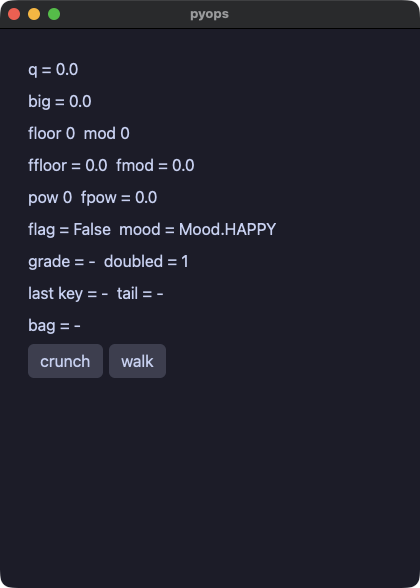
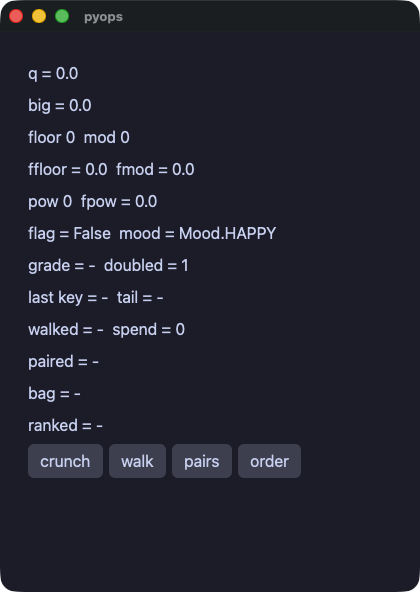
docs(lists): what takes any element, and what needs a key
The tour's list section now separates the two: the operations that
say nothing about the element (`in`, a slice, `+`, `[::-1]`) take a
list of anything the app can hold, and the ones that compare take
`key=` and `reverse=`. `reversed(xs)` is named as Python's iterator,
with `xs[::-1]` beside it. Both languages, both the repo tour and the
website copy, plus the skill.

The pyops demo grew an `order` pane over all of it, so the gallery
shot was reshot — it was two panes out of date.

diff --git a/crates/yokan/DESIGN.md b/crates/yokan/DESIGN.md
@@ -1253,3 +1253,44 @@ side reads the state — so a later `f"{q}"` printed two different
 things. It was silent until a tuple unpacking put a common name like
 `q` on the left. It is refused now, in both the plain assignment and
 the unpacking, and the message names the rename.
+
+## The container operations belong to the container
+
+Sixteen functions — `in`, a slice, `+` and a reversal, once per
+element type — said nothing about the element. They were four ideas
+written four times, and a fifth element type meant writing them a
+fifth. They are one implementation each now, generic on the kernel's
+own list, so they take a list of anything the app can hold: a value
+class, a tuple, an enum. Nothing was added to the boundary to get
+there; what moved is where the operation lives.
+
+Comparing is the opposite: it needs to know what to compare, and a
+value class has no order of its own — which is what Python says too,
+where `sorted` on a list of dataclasses raises. So the ordering
+operations take Python's own answer to that, `key=`, and the refusal
+without one names it.
+
+## A key function is a loop, not a callback
+
+`sorted(xs, key=f)` is decorate-sort-undecorate: the keys are
+computed first, then the elements move to where their keys went.
+Written that way the key function never becomes a value — the
+translator emits the loop that computes the keys, in the app's own
+dialect, and asks the container only for the order. So the key can be
+anything the dialect can write, a lambda or a named helper, and the
+crate boundary keeps carrying values and nothing else.
+
+The sort is stable and `reverse=True` reverses the COMPARISON rather
+than the result, which is what Python does and what
+`sorted(...)[::-1]` does not: ties keep the order they came in.
+`min`/`max` with a key take the first of equal keys, the way Python
+does, and an empty list raises.
+
+## `reversed` is an iterator, so `xs[::-1]` is the list
+
+`reversed(xs)` answered a list here and an iterator in Python. The
+difference is invisible in a `for` — where the name is nearly always
+written — and shows up the moment the result is indexed or measured.
+It is now what Python says it is: a `for` iterable. Where a list is
+wanted the spelling is `xs[::-1]`, which is a list in Python too, and
+the refusal for the old shape names it.

diff --git a/crates/yokan/TOUR.ja.md b/crates/yokan/TOUR.ja.md
@@ -446,7 +446,7 @@ len(items())                 # 件数
 ```
 
 Python のリスト操作はハンドラの中でそのまま使えます。
-`in`、スライス、`sorted` / `reversed` / `min` / `max` / `sum`、内包表記、`enumerate` と `zip`、step 付きの `range`、二つのリストの連結です。
+`in`、スライス、`sorted` / `min` / `max` / `sum`、内包表記、`enumerate` と `zip`、step 付きの `range`、二つのリストの連結です。
 ローカルのリストは注釈で要素の型を書きます（コンパイル側がそれを読みます）。
 
 ```python
@@ -457,6 +457,23 @@ for i, s in enumerate(items()):
 items.set(sorted(out))
 best.set(max(scores()))
 ```
+
+要素が何かを問わない操作（`in`、スライス、`+`、`[::-1]`）は、アプリが持てるどんな要素のリストにも使えます。
+値クラスやタプルのリストも同じです。
+比べるほうは何を比べるかが要るので、`sorted` と `min` と `max` は `key=` を取ります。
+順序を逆にする `reverse=` も取ります。
+`key=` に渡すのは要素を一つ取るラムダか、要素を一つ取るヘルパの名前です。
+並べ替えは安定で、キーが等しい要素は入ってきた順のまま残ります（`reverse=True` のときも同じです）。
+
+```python
+by_score = sorted(players(), key=lambda p: p.score, reverse=True)
+leader = max(players(), key=lambda p: p.score)
+names = [p.name for p in players()]
+newest = entries()[::-1]
+```
+
+`reversed(xs)` は Python ではイテレータなので、`for` で後ろから回すのに使います。
+リストがほしいところでは、Python でもリストになる `xs[::-1]` を書きます。
 
 添字は Python と同じ意味で読めます。
 負の添字は後ろから数え、範囲外はその文をどちらの実行でも中断します。

diff --git a/website/docs-ja/tour-logic.md b/website/docs-ja/tour-logic.md
@@ -133,7 +133,7 @@ len(items())                 # 件数
 ```
 
 Python のリスト操作はハンドラの中でそのまま使えます。
-`in`、スライス、`sorted` / `reversed` / `min` / `max` / `sum`、内包表記、`enumerate` と `zip`、step 付きの `range`、二つのリストの連結です。
+`in`、スライス、`sorted` / `min` / `max` / `sum`、内包表記、`enumerate` と `zip`、step 付きの `range`、二つのリストの連結です。
 ローカルのリストは注釈で要素の型を書きます（コンパイル側がそれを読みます）。
 
 ```python
@@ -144,6 +144,23 @@ for i, s in enumerate(items()):
 items.set(sorted(out))
 best.set(max(scores()))
 ```
+
+要素が何かを問わない操作（`in`、スライス、`+`、`[::-1]`）は、アプリが持てるどんな要素のリストにも使えます。
+値クラスやタプルのリストも同じです。
+比べるほうは何を比べるかが要るので、`sorted` と `min` と `max` は `key=` を取ります。
+順序を逆にする `reverse=` も取ります。
+`key=` に渡すのは要素を一つ取るラムダか、要素を一つ取るヘルパの名前です。
+並べ替えは安定で、キーが等しい要素は入ってきた順のまま残ります（`reverse=True` のときも同じです）。
+
+```python
+by_score = sorted(players(), key=lambda p: p.score, reverse=True)
+leader = max(players(), key=lambda p: p.score)
+names = [p.name for p in players()]
+newest = entries()[::-1]
+```
+
+`reversed(xs)` は Python ではイテレータなので、`for` で後ろから回すのに使います。
+リストがほしいところでは、Python でもリストになる `xs[::-1]` を書きます。
 
 添字は Python と同じ意味で読めます。
 負の添字は後ろから数え、範囲外はその文をどちらの実行でも中断します。

diff --git a/crates/yokan/skill/SKILL.md b/crates/yokan/skill/SKILL.md
@@ -384,8 +384,9 @@ def tally():
 ```
 
 - `if` / `elif` / `else`, `while`, `for` (over `range()` with one or
-  two arguments, a list state, a list field, a list parameter, or
-  `sorted(d())`), `break` / `continue`, locals (reassignable).
+  two arguments, a list state, a list field, a list parameter,
+  `sorted(d())`, or `sorted(xs)` / `reversed(xs)`), `break` /
+  `continue`, locals (reassignable).
 - A local assigned in **both** arms of an `if` / `else` reads after
   the branch; assigned in one arm only, it is refused (Python would
   raise NameError on the other path). Loop variables do not outlive
@@ -412,9 +413,14 @@ def tally():
   negative index counts from the back, past the end aborts the
   statement); `xs[i] = v` writes one. `len(xs)`, `Cart.xs` and
   `self.xs` all say the same thing inside a store. `in`, slices,
-  `sorted` / `reversed` / `min` / `max` / `sum`, comprehensions,
-  `enumerate` / `zip`, a stepped `range` and joining two lists all
-  work; a local list is annotated (`out: list[str] = []`).
+  `sorted` / `min` / `max` / `sum`, comprehensions, `enumerate` /
+  `zip`, a stepped `range` and joining two lists all work; a local
+  list is annotated (`out: list[str] = []`). `in`, a slice, `+` and
+  `[::-1]` take a list of any element the app can hold (a value
+  class, a tuple); `sorted` / `min` / `max` take `key=` (a lambda of
+  one element, or a helper's name) and `sorted` a `reverse=` for
+  those, and the sort is stable. `reversed(xs)` is Python's
+  iterator: it belongs in a `for`, and `xs[::-1]` is the list.
 - `log("…")` writes a line to stderr from either run; `assert` and
   `raise` end the statement the way Python's exception does.
 - Strings: `+`, `==`, `<`, `"-" * 3`, f-strings with Python's

diff --git a/crates/yokan/TOUR.md b/crates/yokan/TOUR.md
@@ -437,7 +437,7 @@ items.set([])                # clear
 len(items())                 # count
 ```
 
-The rest of Python's list vocabulary works in handlers: `in`, slices, `sorted` / `reversed` / `min` / `max` / `sum`, comprehensions, `enumerate` and `zip`, a stepped `range`, and joining two lists.
+The rest of Python's list vocabulary works in handlers: `in`, slices, `sorted` / `min` / `max` / `sum`, comprehensions, `enumerate` and `zip`, a stepped `range`, and joining two lists.
 A local list carries its element type in the annotation, which is what the compiled side reads.
 
 ```python
@@ -448,6 +448,19 @@ for i, s in enumerate(items()):
 items.set(sorted(out))
 best.set(max(scores()))
 ```
+
+The operations that say nothing about the element — `in`, a slice, `+`, `[::-1]` — take a list of anything the app can hold, a value class or a tuple included.
+Comparing needs to know what to compare, so `sorted`, `min` and `max` take a `key=` for those, and a `reverse=` to turn the order around.
+The key is a lambda of one element or the name of a helper that takes one, and sorting is stable: elements with equal keys keep the order they came in, with `reverse=True` as well.
+
+```python
+by_score = sorted(players(), key=lambda p: p.score, reverse=True)
+leader = max(players(), key=lambda p: p.score)
+names = [p.name for p in players()]
+newest = entries()[::-1]
+```
+
+`reversed(xs)` is Python's iterator, so it walks a list backwards in a `for`; where a list is wanted, `xs[::-1]` is the one that is a list in Python too.
 
 Indexing reads an element, with Python's meaning: a negative index counts from the back, and an index past the end stops that statement in both runs.
 

diff --git a/website/docs/tour-logic.md b/website/docs/tour-logic.md
@@ -126,7 +126,7 @@ items.set([])                # clear
 len(items())                 # count
 ```
 
-The rest of Python's list vocabulary works in handlers: `in`, slices, `sorted` / `reversed` / `min` / `max` / `sum`, comprehensions, `enumerate` and `zip`, a stepped `range`, and joining two lists.
+The rest of Python's list vocabulary works in handlers: `in`, slices, `sorted` / `min` / `max` / `sum`, comprehensions, `enumerate` and `zip`, a stepped `range`, and joining two lists.
 A local list carries its element type in the annotation, which is what the compiled side reads.
 
 ```python
@@ -137,6 +137,19 @@ for i, s in enumerate(items()):
 items.set(sorted(out))
 best.set(max(scores()))
 ```
+
+The operations that say nothing about the element — `in`, a slice, `+`, `[::-1]` — take a list of anything the app can hold, a value class or a tuple included.
+Comparing needs to know what to compare, so `sorted`, `min` and `max` take a `key=` for those, and a `reverse=` to turn the order around.
+The key is a lambda of one element or the name of a helper that takes one, and sorting is stable: elements with equal keys keep the order they came in, with `reverse=True` as well.
+
+```python
+by_score = sorted(players(), key=lambda p: p.score, reverse=True)
+leader = max(players(), key=lambda p: p.score)
+names = [p.name for p in players()]
+newest = entries()[::-1]
+```
+
+`reversed(xs)` is Python's iterator, so it walks a list backwards in a `for`; where a list is wanted, `xs[::-1]` is the one that is a list in Python too.
 
 Indexing reads an element, with Python's meaning: a negative index counts from the back, and an index past the end stops that statement in both runs.
 

diff --git a/website/docs/demos.md b/website/docs/demos.md
@@ -66,7 +66,7 @@ the initial state, right after launch.
 #### moods — Enum, Optional and animation
 <img src="images/demos/moods.png" width="360">
 
-#### pyops — CPython's own arithmetic: `/` `//` `%` `**`, negative indexing, sorted() — byte-identical in both runs
+#### pyops — CPython's own arithmetic: `/` `//` `%` `**`, negative indexing, ordering by a key — byte-identical in both runs
 <img src="images/demos/pyops.png" width="360">
 
 #### pytext — bare float / bool / Enum text renders exactly as Python's str()

diff --git a/crates/yokan/demo/README.md b/crates/yokan/demo/README.md
@@ -67,7 +67,7 @@ the initial state, right after launch.
 #### moods — Enum, Optional and animation
 <img src="screenshots/moods.png" width="360">
 
-#### pyops — CPython's own arithmetic: `/` `//` `%` `**`, negative indexing, sorted() — byte-identical in both runs
+#### pyops — CPython's own arithmetic: `/` `//` `%` `**`, negative indexing, ordering by a key — byte-identical in both runs
 <img src="screenshots/pyops.png" width="360">
 
 #### pytext — bare float / bool / Enum text renders exactly as Python's str()
